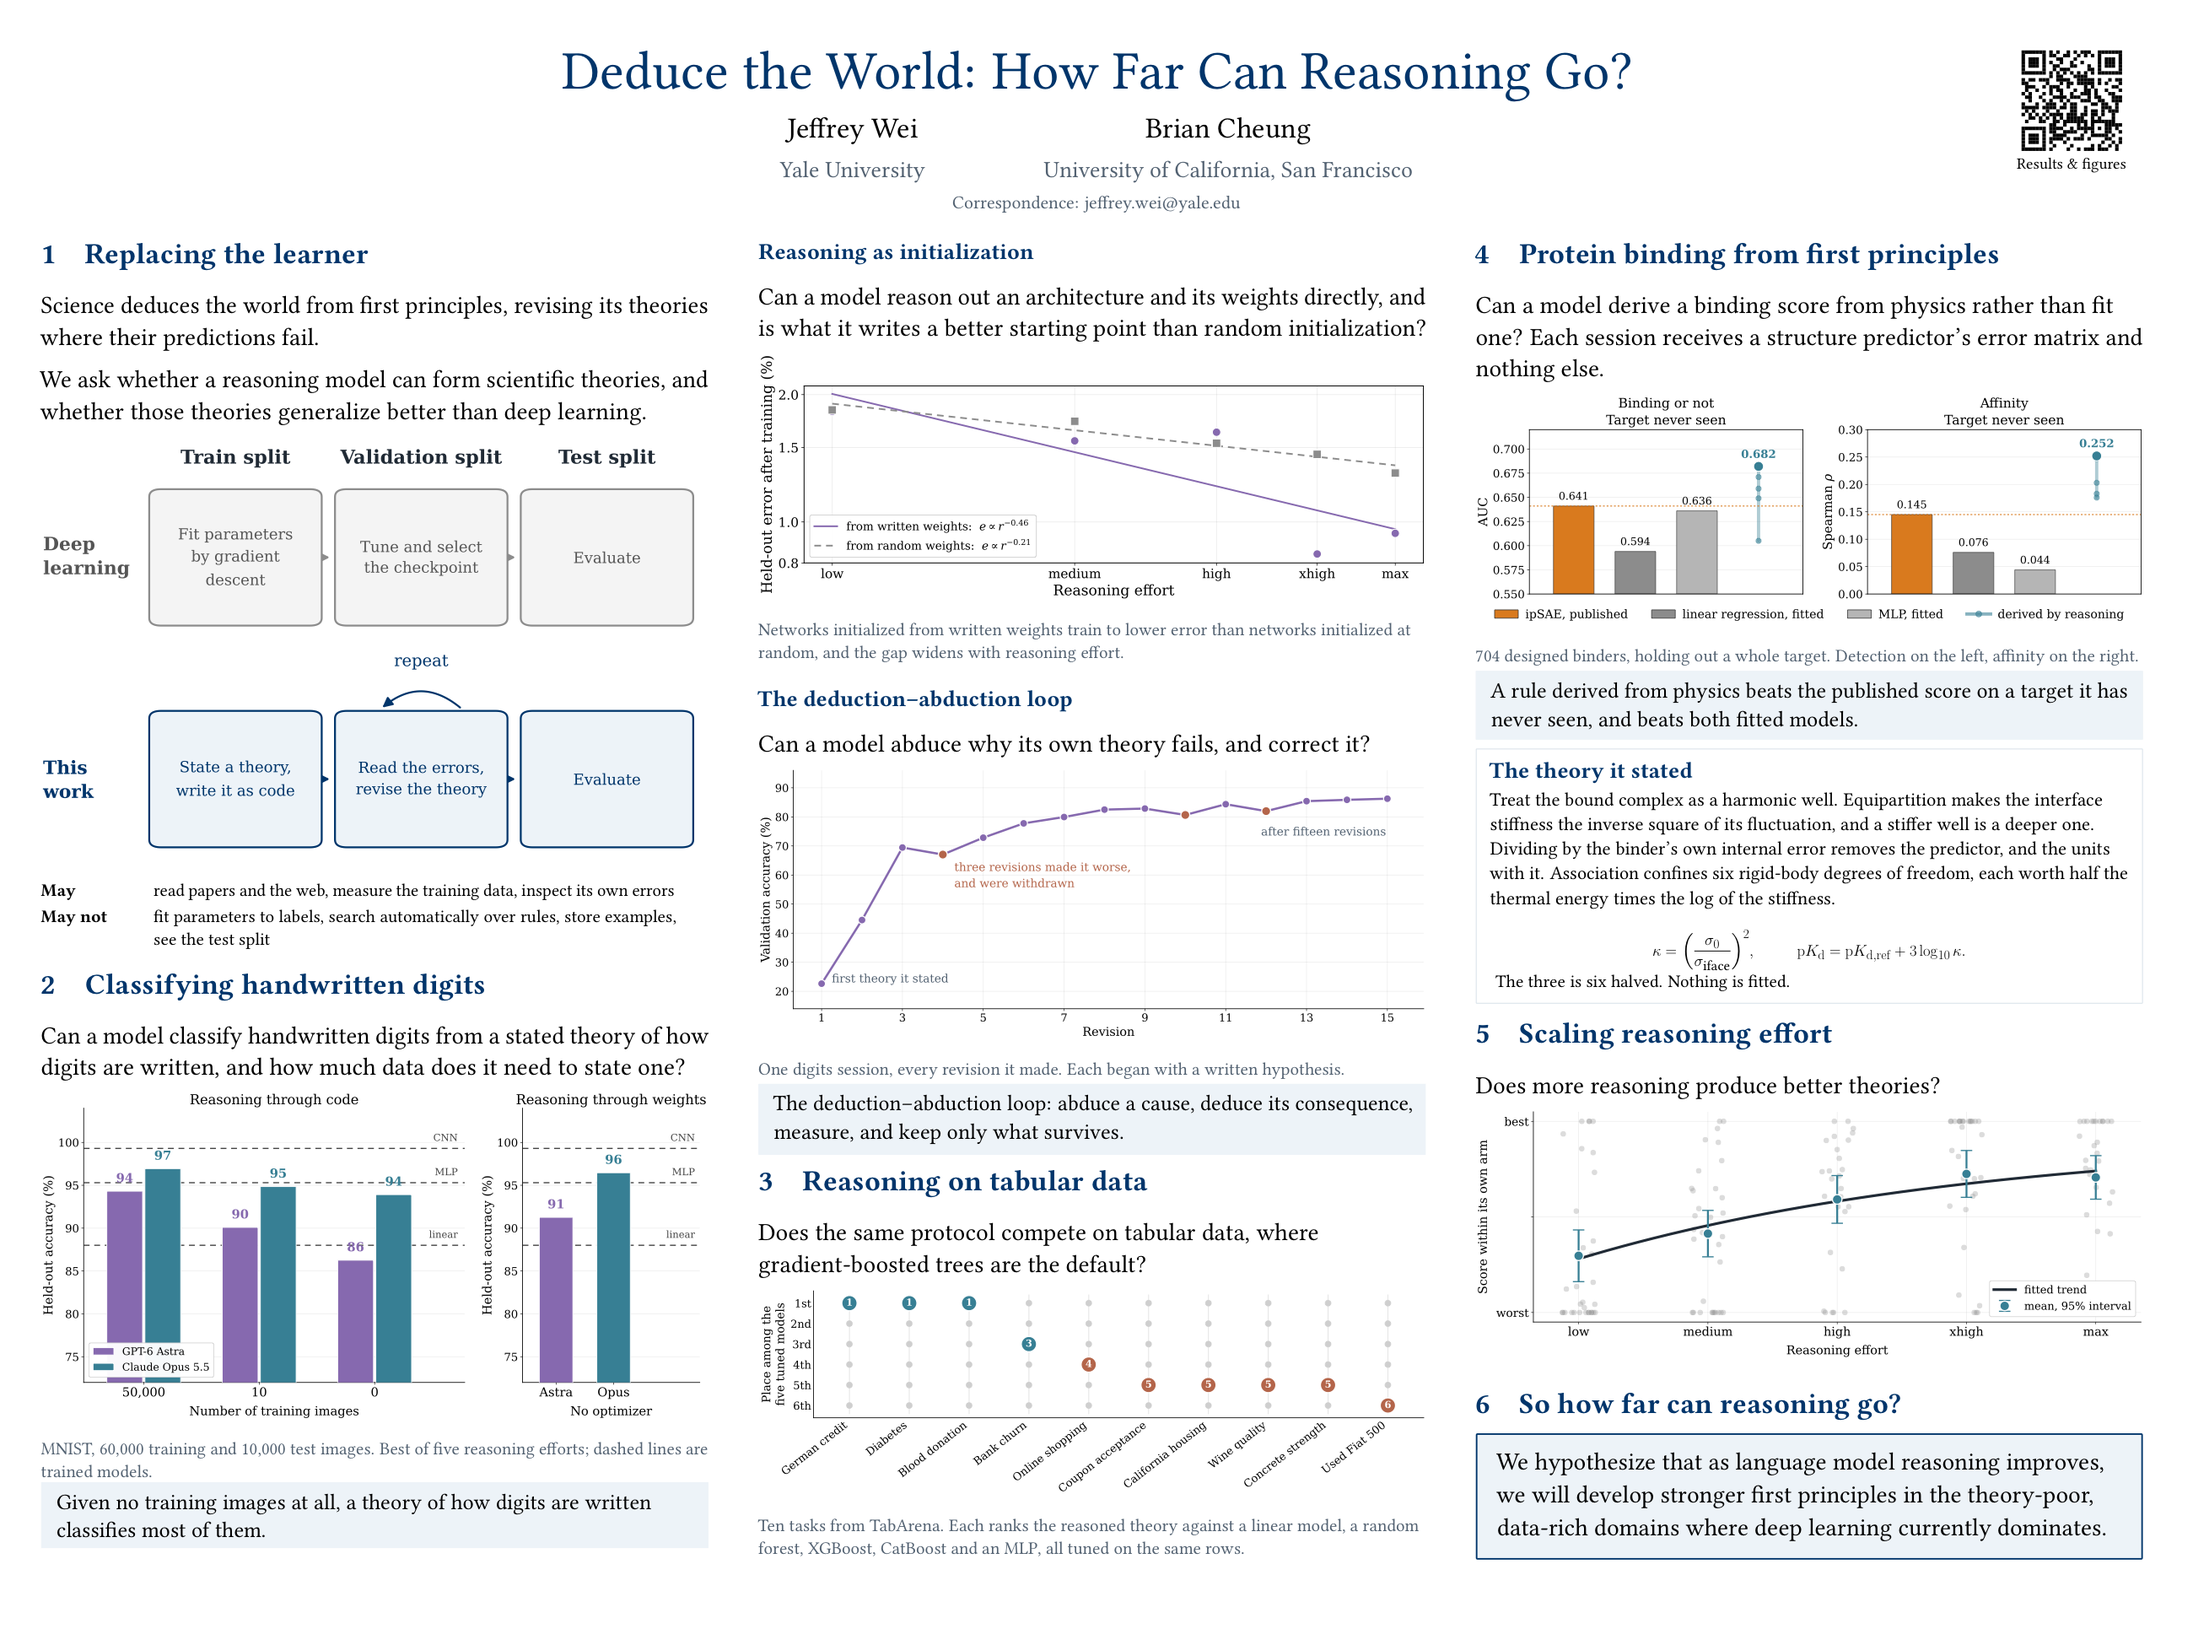
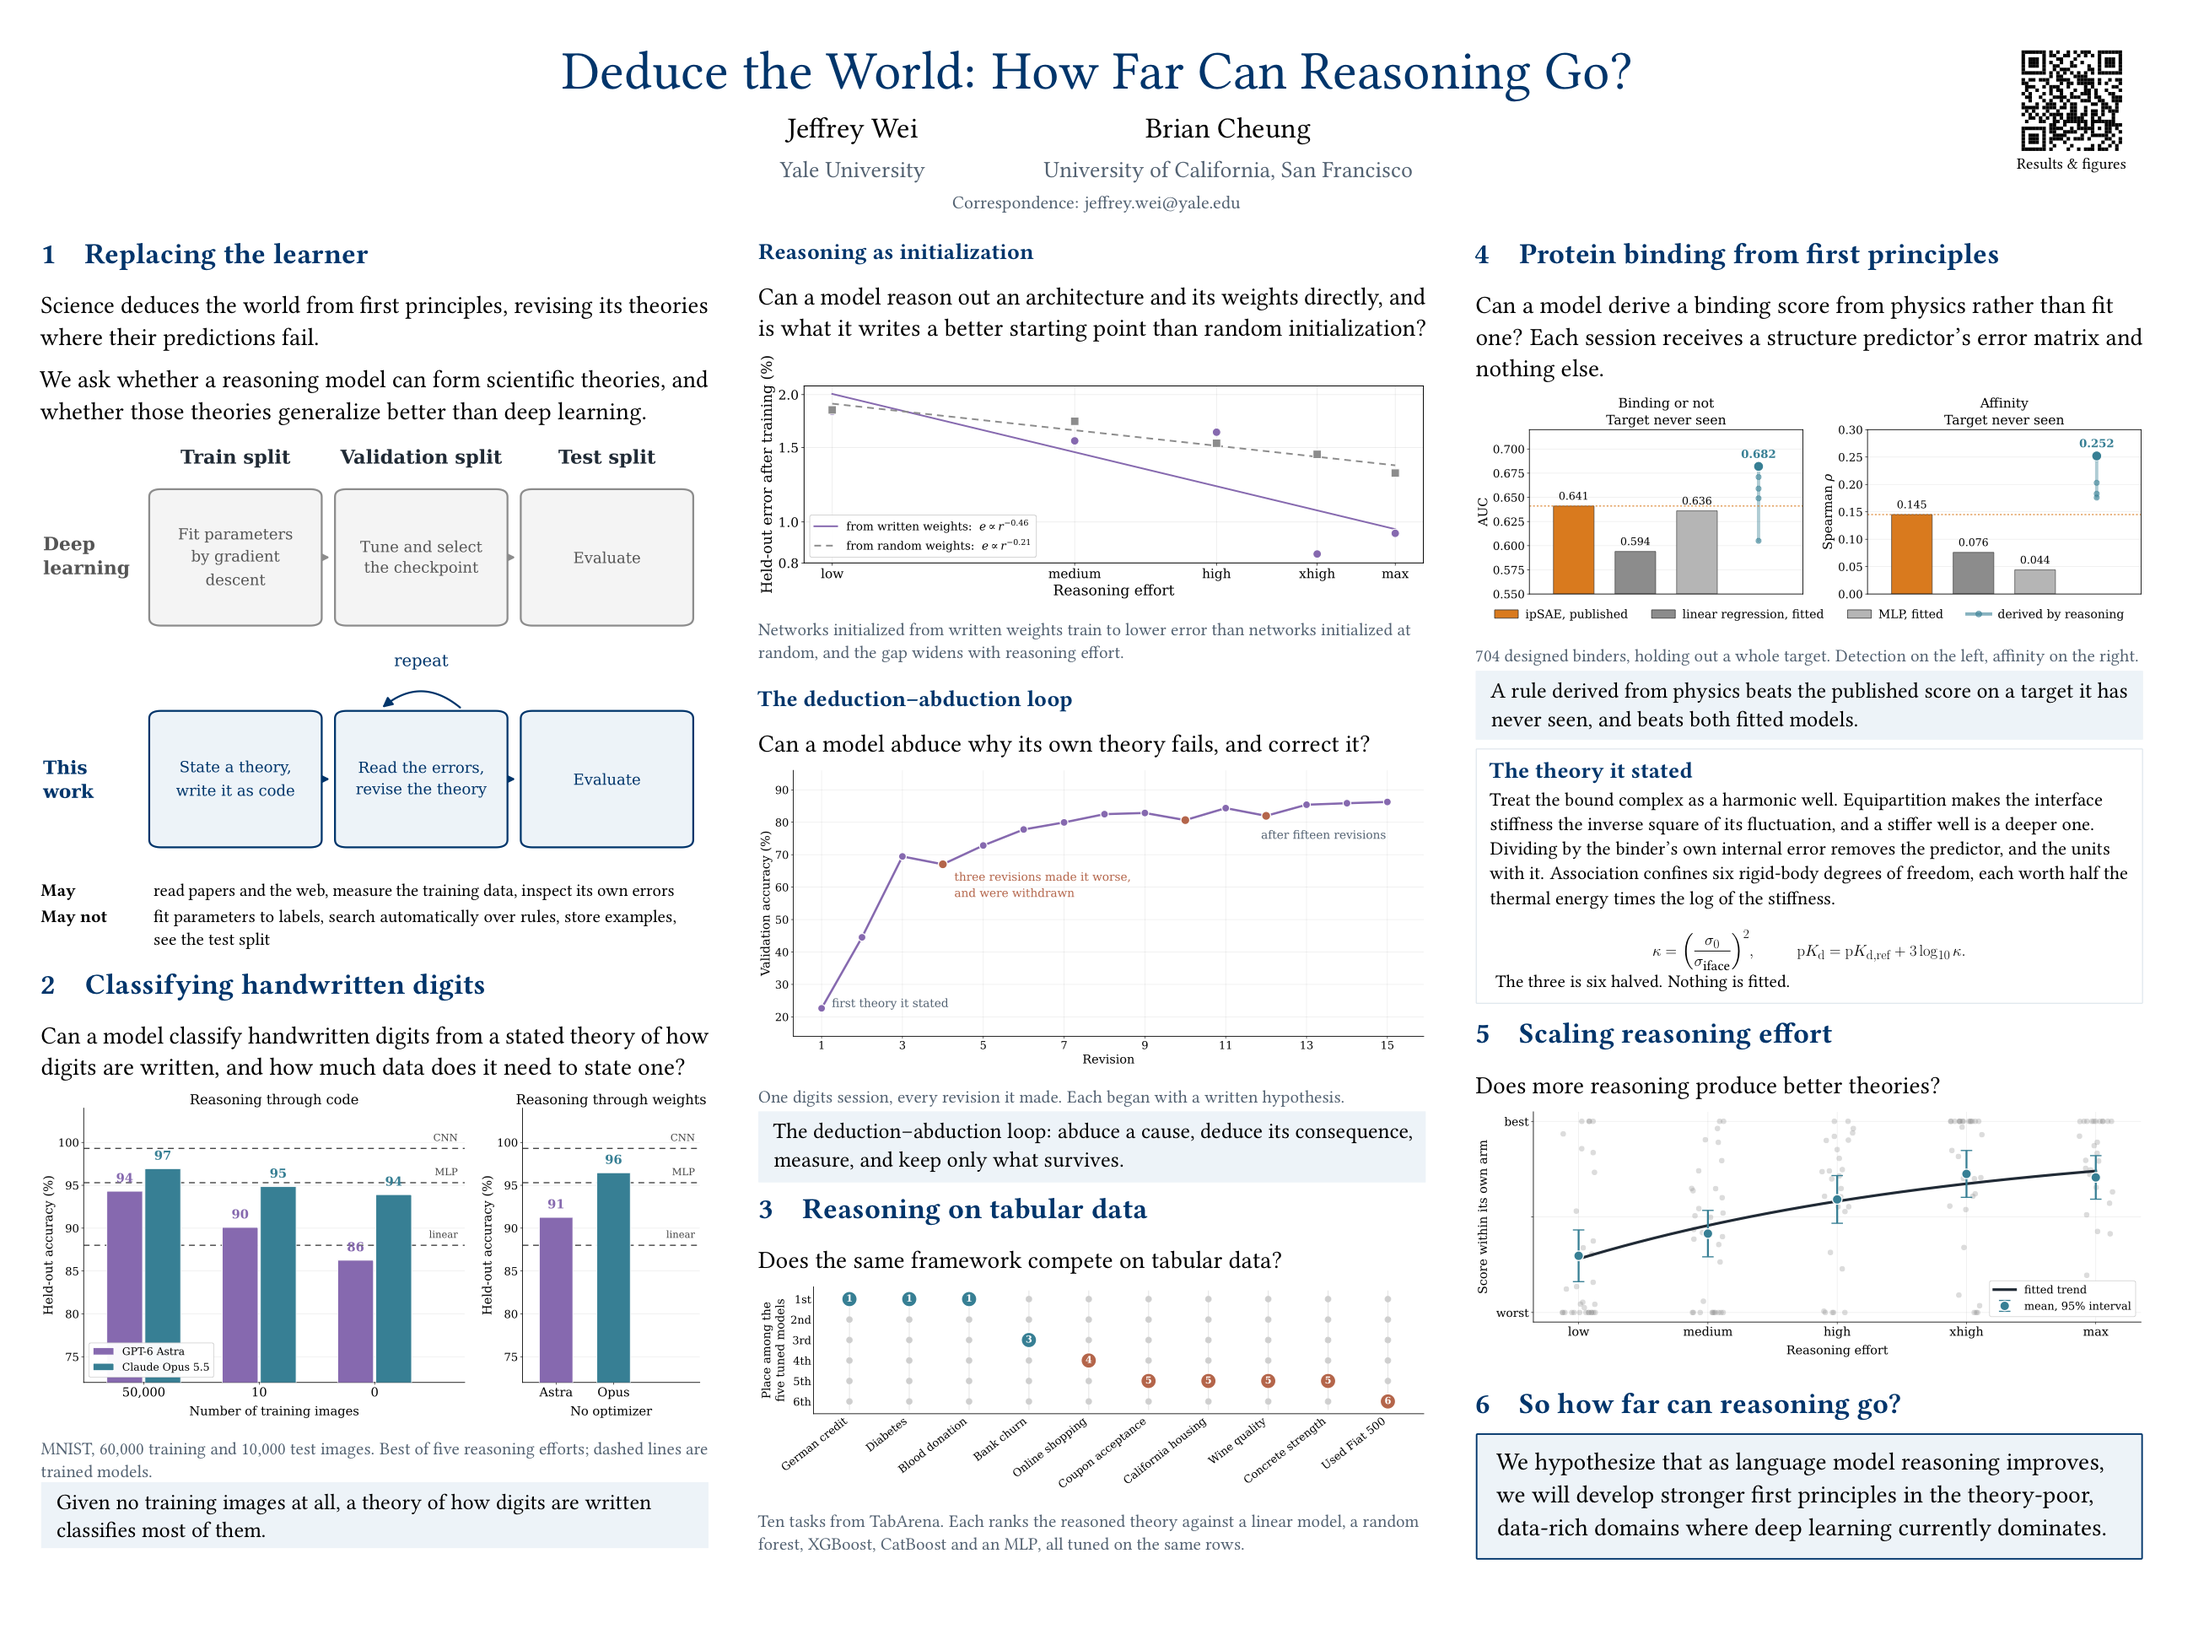
Say framework, trim the tabular question

diff --git a/poster/poster.tex b/poster/poster.tex
@@ -113,7 +113,7 @@ The deduction--abduction loop: abduce a cause, deduce its consequence, measure, 
 \vspace{0.20in}
 \heading{3}{Reasoning on tabular data}
 
-Does the same protocol compete on tabular data, where gradient-boosted trees are the default?
+Does the same framework compete on tabular data?
 
 {\centering\includegraphics[width=\linewidth]{poster_tabular}\par}
 \figcaption{Ten tasks from TabArena. Each ranks the reasoned theory against a linear model, a random forest, XGBoost, CatBoost and an MLP, all tuned on the same rows.}

diff --git a/poster/make_figs.py b/poster/make_figs.py
@@ -516,7 +516,7 @@ def cycles(D):
     x = np.arange(1, len(val) + 1)
     down = [k for k in range(1, len(val)) if val[k] < val[k - 1]]
 
-    fig, ax = plt.subplots(figsize=(14.6, 6.0))
+    fig, ax = plt.subplots(figsize=(14.6, 6.6))
     ax.plot(x, val, "-", color=ASTRA, linewidth=3.4, zorder=3)
     ax.plot(x, val, "o", color=ASTRA, markersize=12, markeredgecolor="white",
             markeredgewidth=1.6, zorder=4)
